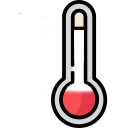
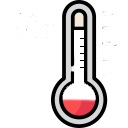
Added more customized temp images

diff --git a/src/app.js b/src/app.js
@@ -33,12 +33,16 @@ let apiResponse;
 function displayImage() {
   let image;
   let currentTemp = Math.round(apiResponse.data.current.temp_c);
-  if (currentTemp < 15) {
+  if (currentTemp < 10) {
     image = "cold-temp";
-  } else if (currentTemp > 27) {
+  } else if (currentTemp >= 10 && currentTemp < 20) {
+    image = "normal-temp";
+  } else if (currentTemp >= 20 && currentTemp < 30) {
+    image = "upper-normal-temp";
+  } else if (currentTemp >= 30 && currentTemp < 40) {
     image = "hot-temp";
   } else {
-    image = "normal-temp";
+    image = "extreme-hot-temp";
   }
   let weatherImageElement = document.querySelector("#weather-image");
   weatherImageElement.innerHTML = `<img src="images/${image}.png" alt="weather-image" id="temp-image">`;
